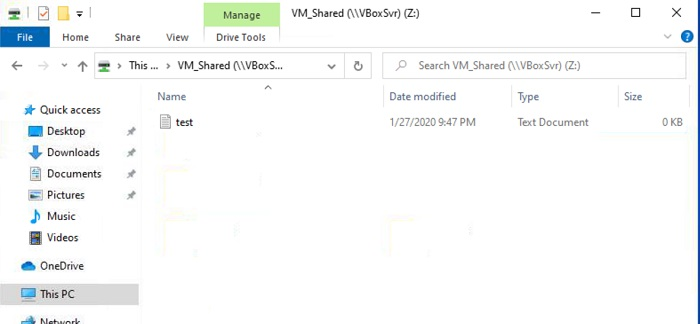
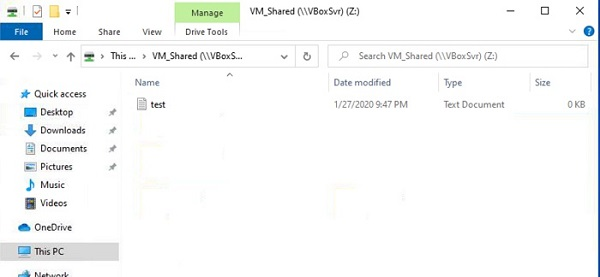
edit

diff --git a/docs/_video_pages/vbwin10.md b/docs/_video_pages/vbwin10.md
@@ -38,7 +38,7 @@ To follow along with this guide you should have a HDD (SSD preferred) with at le
 If you do not already have a Windows ISO image file, you will also need a high speed Internet connection as we will be downloading a ~4 GB Windows ISO image file. On a 100 Mbps connection it takes roughly 6 minutes for the download portion, so you can use that as a base reference (i.e. a 10 Mbps connection will take 60 minutes and so on).
 
 Finally, if you wish to make your Windows 10 VM a more permanent installation, you will also need to have a valid Windows 10 Product key. This is optional as you can also take a snapshot of your finished VM install and simply revert back to its initial state once the grace period is over.
-<br/>
+<br/><br/>
 
 There are also a few terms I wish to clarify: VM, VB, host system and guest system.
 
@@ -49,7 +49,7 @@ There are also a few terms I wish to clarify: VM, VB, host system and guest syst
 - The ‘host system’ is the physical PC you are probably using right now that you intend to install the VB software on to run the virtual guest machine.
 
 - The ‘guest system’ then is the Virtual Machine that you will be running using the VB software, in this case the virtual Windows 10 system we will be installing.
-<br/>
+<br/><br/>
 
 [Back to Top](#this-is-the-companion-page-for-the-virtualbox-windows-10-video)
 
@@ -224,7 +224,7 @@ It has the option to Launch the Oracle VM VirtualBox after installation checked 
 
 Click on Finish.
 
-<br/>
+<br/><br/>
 
 [Back to Top](#this-is-the-companion-page-for-the-virtualbox-windows-10-video)
 
@@ -296,7 +296,7 @@ File location and size. This is where your Virtual Machines hard drive will live
 Once done adjusting these settings to meet your needs, click on Create.
 
 This will take you back to the home screen. You now have a Virtual Machine that is the equivalent to a bare metal PC. At this stage it still needs an OS installed to be useful.
-<br/>
+<br/><br/>
 
 [Back to Top](#this-is-the-companion-page-for-the-virtualbox-windows-10-video)
 
@@ -377,7 +377,7 @@ Go down to the Network section just to be sure Enable network adapter and Attach
 The rest of the settings should be fine for now. We will look at setting up Shared Folders later on once Windows 10 has been installed on the VM.
 
 You can now click on OK to leave the settings window and save your changes.
-<br/>
+<br/><br/>
 
 [Back to Top](#this-is-the-companion-page-for-the-virtualbox-windows-10-video)
 
@@ -483,7 +483,7 @@ After another few moments of setup you should finally be presented with the Wind
 Assuming everything is ok we can finish up with a few other settings.
 
 The first thing you will probably want to do is change the display settings by right clicking on the guest desktop and choose Display Settings. Choose a resolution that works for you. Note on a 4k host monitor you might have some issues with limited resolution choices until we install guest additions, which is the next step.
-<br/>
+<br/><br/>
 
 [Back to Top](#this-is-the-companion-page-for-the-virtualbox-windows-10-video)
 
@@ -532,7 +532,7 @@ You may get prompted to install a device driver from Oracle, go ahead and click 
 <img width="600" height="467" src="images\videos\VirtualBox\Win10_VM_Guest_Additons5.jpg" title="VirtualBox Guest Additions Reboot">
 </p>
 When the process is finished you will be prompted to reboot the VM. Go ahead and do so now by clicking on Finish. This will reboot the VM.
-<br/>
+<br/><br/>
 
 [Back to Top](#this-is-the-companion-page-for-the-virtualbox-windows-10-video)
 
@@ -543,30 +543,58 @@ When the process is finished you will be prompted to reboot the VM. Go ahead and
 
 Now is a good time to setup shared folders. On your host PC, create a new shared folder somewhere. I usually do this right off of my C drive or other drive.
 
+<br/><br/><br/>
+<p align="center">
+<img width="500" height="94" src="images\videos\VirtualBox\VM_Shared.jpg" title="Shared Folder">
+</p>
 In this example I am creating a folder called VM_Shared on my D: drive, so D:\VM_Shared.
 
-Once the VM reboots, go to the top menu in the VM window and select Devices, then Shared Folders → Shared Folder Settings.
+<br/><br/><br/>
+<p align="center">
+<img width="500" height="219" src="images\videos\VirtualBox\VM_Shared_Folder_Settings.jpg" title="Shared Folder Settings">
+</p>
+Go to the top menu in the VM window and select Devices, then Shared Folders → Shared Folder Settings.
 
+<br/><br/><br/>
+<p align="center">
+<img width="600" height="432" src="images\videos\VirtualBox\VM_Shared_Folder_Settings2.jpg" title="Shared Folder Settings">
+</p>
 Then in the window that opens click on the little folder with the green + sign off to the right.
 
+<br/><br/><br/>
+<p align="center">
+<img width="600" height="488" src="images\videos\VirtualBox\VM_Shared_Folder_Settings3.jpg" title="Shared Folder Settings">
+</p>
 In the Add Share window that opens click on the down arrow by folder path and click on other.
 
 Browse to the VM_Shared folder you just created. Note that this dialog is actually browsing your host system file structure.
 
+<br/><br/><br/>
+<p align="center">
+<img width="600" height="489" src="images\videos\VirtualBox\VM_Shared_Folder_Settings4.jpg" title="Shared Folder Settings">
+</p>
 Uncheck Read-only, check Auto-mount and Make Permanent so the shared folder remains intact on successive reboots. You don’t need to worry about the Mount point as the system will automatically take care of that.
 
 Click on OK when finished with these settings, then OK again.
 
+<br/><br/><br/>
+<p align="center">
+<img width="600" height="450" src="images\videos\VirtualBox\VM_Shared_Folder_Settings5.jpg" title="Shared Folder Settings">
+</p>
 Now if you open up Windows Explorer on the guest OS (the VM) and click on This PC, you should see a new network location VM_Shared or whatever name you chose mapped as a Z drive.
 
 Go ahead and double click on this new share, then right click on an empty area inside the folder and select new text document. Give it a name such as test and hit enter.
 
+<br/><br/><br/>
+<p align="center">
+<img width="600" height="277" src="images\videos\VirtualBox\VM_Shared_Folder_Settings6.jpg" title="Shared Folder Settings">
+</p>
 Now on your host system, open up your file explorer and open the VM_Shared folder and you should see your test text document.
 
 If this all is working correctly you should now be setup to easily share files between your host and guest OS.
 
 One precaution, if you intend this VM to be used as a sandbox to test possibly dubious or infected software, I would recommend against using the shared folders feature.
-<br/>
+<br/><br/>
 
 [Back to Top](#this-is-the-companion-page-for-the-virtualbox-windows-10-video)
 
@@ -580,7 +608,7 @@ Now at this point, you may want to take an initial snapshot of your installation
 Give it a name and description and click on OK. Now you can restore your VM to the present state if anything happens later on.
 
 If you plan to install additional software on your VM, you may want to wait and take your snapshot after all your program are setup and running, or you can even have multiple snapshots at different points, keeping in mind they do each take up some space on your host hard drive.
-<br/>
+<br/><br/>
 
 [Back to Top](#this-is-the-companion-page-for-the-virtualbox-windows-10-video)
 
